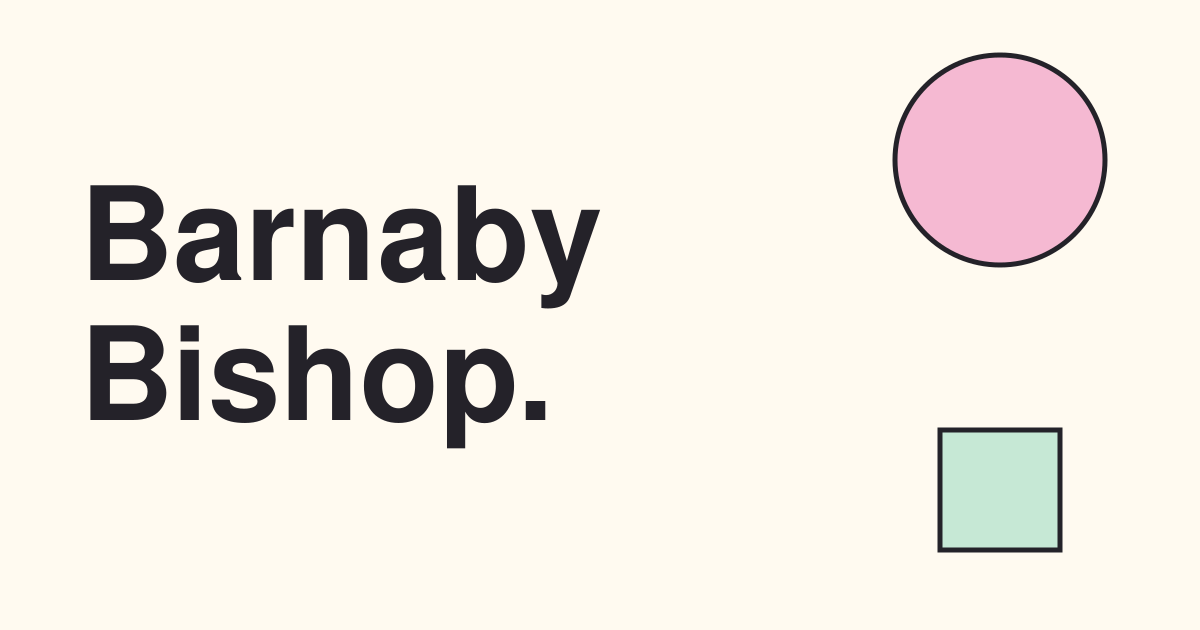
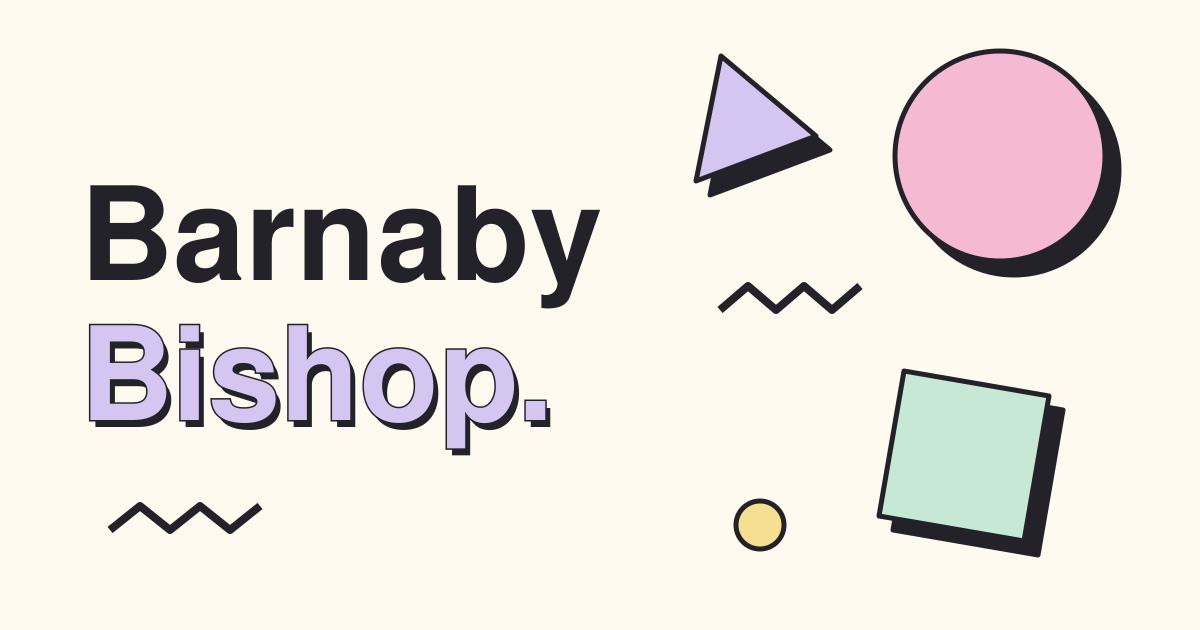
Complete canonical metadata, social cards and static discovery (#5)

diff --git a/tests/build.test.ts b/tests/build.test.ts
@@ -58,7 +58,7 @@ test('real static builds, direct requests and deliberate local draft preview', {
     await build();
     const emptyHome = await readFile(join(directory, 'dist/index.html'), 'utf8');
     assert.match(emptyHome, /Nothing published just yet/);
-    assert.doesNotMatch(emptyHome, /interactive-example|<script\b/);
+    assert.doesNotMatch(emptyHome, /interactive-example|<script(?![^>]*type="application\/ld\+json")\b/);
     await assert.rejects(access(join(directory, 'dist/interactive-example/index.html')));
 
     // Temporary published fixtures verify both author-owned layout choices.
@@ -69,6 +69,7 @@ test('real static builds, direct requests and deliberate local draft preview', {
       await mkdir(folder);
       await writeFile(join(folder, 'metadata.ts'), 'export default ' + JSON.stringify({
         title: slug, description: 'Summary & details', slug, published, draft: false,
+        ...(bespoke ? { modified: '2026-02-01', image: { url: 'https://barnabybishop.com/override.png', alt: 'Fixture image', width: 800, height: 400 } } : {}),
       }));
       await writeFile(join(folder, 'Post.astro'), bespoke
         ? '---\nimport SiteShell from "../../layouts/SiteShell.astro";\n---\n<SiteShell title="Bespoke fixture" description="Own layout"><main><h1>My own page</h1></main></SiteShell>'
@@ -81,17 +82,79 @@ test('real static builds, direct requests and deliberate local draft preview', {
       published: '2024-01-01', draft: false,
     }));
     await cp(join(directory, 'src/posts/interactive-example/Post.astro'), join(interactive, 'Post.astro'));
+    await cp(join(directory, 'public/social.png'), join(directory, 'public/override.png'));
     await build();
     const interactiveHtml = await readFile(join(directory, 'dist/interactive-fixture/index.html'), 'utf8');
-    assert.match(interactiveHtml, /<script\b/);
+    assert.match(interactiveHtml, /<script(?![^>]*type="application\/ld\+json")\b/);
     const home = await readFile(join(directory, 'dist/index.html'), 'utf8');
     assert.ok(home.indexOf('href="/newer-fixture"') < home.indexOf('href="/older-fixture"'));
     for (const file of ['index.html', 'about/index.html', '404.html', 'rss.xml', 'sitemap.xml', 'llms.txt']) {
       const output = await readFile(join(directory, 'dist', file), 'utf8');
       assert.doesNotMatch(output, /interactive-example|A small interactive example/);
-      assert.doesNotMatch(output, /<script\b/);
+      assert.doesNotMatch(output, /<script(?![^>]*type="application\/ld\+json")\b/);
+    }
+    const titles = new Set<string>();
+    for (const [file, path, article] of [
+      ['index.html', '/', false], ['about/index.html', '/about', false],
+      ['older-fixture/index.html', '/older-fixture', true], ['newer-fixture/index.html', '/newer-fixture', true],
+    ] as const) {
+      const html = await readFile(join(directory, 'dist', file), 'utf8');
+      const url = 'https://barnabybishop.com' + path;
+      assert.match(html, new RegExp(`<link rel="canonical" href="${url}"`));
+      assert.match(html, new RegExp(`<meta property="og:url" content="${url}"`));
+      assert.match(html, new RegExp(`<meta property="og:type" content="${article ? 'article' : 'website'}"`));
+      assert.match(html, /<html lang="en"/);
+      assert.match(html, /name="viewport"/);
+      assert.match(html, /name="theme-color" content="#fffaf0"/);
+      assert.match(html, /property="og:site_name" content="Barnaby Bishop"/);
+      assert.match(html, /name="twitter:card" content="summary_large_image"/);
+      assert.match(html, /type="application\/rss\+xml"[^>]*href="https:\/\/barnabybishop.com\/rss.xml"/);
+      assert.doesNotMatch(html, /localhost|127\.0\.0\.1/);
+      const title = html.match(/<title>(.*?)<\/title>/)![1]!;
+      assert.ok(!titles.has(title));
+      titles.add(title);
+      const graph = JSON.parse(html.match(/<script type="application\/ld\+json">(.*?)<\/script>/s)![1]!)['@graph'];
+      assert.equal(graph[0].name, 'Barnaby Bishop');
+      assert.equal(graph[1].url, 'https://barnabybishop.com/');
+      assert.equal(graph.some((entry: { '@type': string }) => entry['@type'] === 'BlogPosting'), article);
+      if (article) {
+        assert.match(html, /property="article:author" content="https:\/\/barnabybishop.com\/"/);
+        assert.equal(graph[2].url, url);
+        assert.equal(graph[2].headline, path.slice(1));
+      }
+      if (path === '/newer-fixture') {
+        assert.match(html, /property="og:image" content="https:\/\/barnabybishop.com\/override.png"/);
+        assert.match(html, /property="og:image:alt" content="Fixture image"/);
+        assert.match(html, /property="og:image:width" content="800"/);
+        assert.match(html, /property="og:image:height" content="400"/);
+        assert.match(html, /property="article:modified_time" content="2026-02-01"/);
+        assert.equal(graph[2].dateModified, '2026-02-01');
+      } else {
+        assert.match(html, /property="og:image" content="https:\/\/barnabybishop.com\/social.png"/);
+        assert.doesNotMatch(html, /article:modified_time|dateModified/);
+      }
+    }
+    const notFound = await readFile(join(directory, 'dist/404.html'), 'utf8');
+    assert.match(notFound, /noindex, nofollow/);
+    const sitemap = await readFile(join(directory, 'dist/sitemap.xml'), 'utf8');
+    const llms = await readFile(join(directory, 'dist/llms.txt'), 'utf8');
+    for (const slug of ['older-fixture', 'newer-fixture', 'interactive-fixture']) {
+      const url = 'https://barnabybishop.com/' + slug;
+      assert.ok(sitemap.includes(`<loc>${url}</loc>`));
+      assert.ok(llms.includes(`](${url})`));
+    }
+    assert.match(await readFile(join(directory, 'dist/robots.txt'), 'utf8'), /Sitemap: https:\/\/barnabybishop.com\/sitemap.xml/);
+    for (const asset of ['social.png', 'favicon-32.png', 'apple-touch-icon.png', 'override.png']) {
+      const bytes = await readFile(join(directory, 'dist', asset));
+      assert.equal(bytes.subarray(1, 4).toString(), 'PNG');
+      if (asset === 'social.png') {
+        assert.equal(bytes.readUInt32BE(16), 1200);
+        assert.equal(bytes.readUInt32BE(20), 630);
+      }
     }
     const rss = await readFile(join(directory, 'dist/rss.xml'), 'utf8');
+    assert.doesNotMatch(sitemap + rss + llms, /404|interactive-example/);
+    assert.match(rss, /<link>https:\/\/barnabybishop.com\/newer-fixture<\/link>/);
     assert.match(rss, /Summary &amp; details/);
     assert.ok(rss.indexOf('newer-fixture') < rss.indexOf('older-fixture'));
     await serve(directory, ['preview'], async (base) => {
@@ -104,10 +167,10 @@ test('real static builds, direct requests and deliberate local draft preview', {
       const standard = await (await fetch(base + '/older-fixture')).text();
       assert.match(standard, /site-header/);
       assert.match(standard, /Standard article body/);
-      assert.doesNotMatch(standard, /<script\b/);
+      assert.doesNotMatch(standard, /<script(?![^>]*type="application\/ld\+json")\b/);
       const bespoke = await (await fetch(base + '/newer-fixture')).text();
       assert.match(bespoke, /My own page/);
-      assert.doesNotMatch(bespoke, /class="site-(?:header|footer)"|<article\b|<script\b/);
+      assert.doesNotMatch(bespoke, /class="site-(?:header|footer)"|<article\b|<script(?![^>]*type="application\/ld\+json")\b/);
     });
     await serve(directory, ['dev'], async (base) => {
       assert.equal((await fetch(base + '/interactive-example')).status, 404);

diff --git a/src/lib/metadata.ts b/src/lib/metadata.ts
@@ -1,0 +1,65 @@
+import type { PostMetadata, SocialImage } from './post-catalogue';
+
+export const origin = 'https://barnabybishop.com';
+export const siteName = 'Barnaby Bishop';
+export const siteDescription = 'The personal website of Barnaby Bishop.';
+export const themeColour = '#fffaf0';
+
+/** Page paths have no trailing slash, except the site root. Never use request origins. */
+export function canonicalUrl(path: string): string {
+  const pathname = new URL(path, origin).pathname.replace(/\/+$/, '') || '/';
+  return origin + pathname;
+}
+
+export const defaultImage: SocialImage = {
+  url: origin + '/social.png',
+  alt: 'Barnaby Bishop with pastel Memphis shapes, dark outlines and hard shadows.',
+  width: 1200,
+  height: 630,
+};
+
+export const publicPages = [
+  { path: '/', title: siteName, description: siteDescription },
+  { path: '/about', title: 'About — Barnaby Bishop', description: 'About page for Barnaby Bishop.' },
+] as const;
+
+export interface PageMetadata {
+  title: string;
+  description: string;
+  canonical: string;
+  image: SocialImage;
+  type: 'website' | 'article';
+  noindex: boolean;
+  published?: string;
+  modified?: string;
+  structuredData: Record<string, unknown>[];
+}
+
+export function pageMetadata(path: string, post?: PostMetadata, fallback?: { title?: string; description?: string; noindex?: boolean }): PageMetadata {
+  const canonical = canonicalUrl(path);
+  const page = publicPages.find((entry) => canonicalUrl(entry.path) === canonical);
+  const missing = canonical === canonicalUrl('/404') || canonical === canonicalUrl('/404.html');
+  const title = post ? `${post.title} — ${siteName}` : page?.title ?? fallback?.title ?? `Page not found — ${siteName}`;
+  const description = post?.description ?? page?.description ?? fallback?.description ?? 'This page could not be found.';
+  const article = post && !post.draft;
+  const image = post?.image ?? defaultImage;
+  const person = { '@type': 'Person', '@id': origin + '/#person', name: siteName, url: canonicalUrl('/') };
+  const website = { '@type': 'WebSite', '@id': origin + '/#website', name: siteName, url: canonicalUrl('/'), description: siteDescription, author: { '@id': person['@id'] } };
+  const noindex = missing || post?.draft === true || fallback?.noindex === true;
+  return {
+    title, description, canonical, image, noindex, type: article ? 'article' : 'website',
+    ...(article ? { published: post.published, modified: post.modified } : {}),
+    structuredData: noindex ? [] : [{ '@context': 'https://schema.org', '@graph': [person, website, ...(article ? [{
+      '@type': 'BlogPosting', '@id': canonical + '#article', url: canonical,
+      mainEntityOfPage: canonical, headline: post.title, description,
+      image: { '@type': 'ImageObject', url: image.url, caption: image.alt, width: image.width, height: image.height },
+      author: { '@id': person['@id'] }, isPartOf: { '@id': website['@id'] },
+      datePublished: post.published, ...(post.modified ? { dateModified: post.modified } : {}),
+    }] : [])] }],
+  };
+}
+
+/** Keep JSON-LD inert even when catalogue text contains HTML closing tags. */
+export function serializeJsonLd(value: unknown): string {
+  return JSON.stringify(value).replace(/</g, '\\u003c').replace(/>/g, '\\u003e').replace(/&/g, '\\u0026');
+}

diff --git a/tests/metadata.test.ts b/tests/metadata.test.ts
@@ -1,0 +1,39 @@
+import { test } from 'node:test';
+import assert from 'node:assert/strict';
+import { canonicalUrl, pageMetadata, serializeJsonLd } from '../src/lib/metadata.ts';
+import { createCatalogue } from '../src/lib/post-catalogue.ts';
+
+const post = { title: 'A title', description: 'A summary', published: '2026-01-01', slug: 'a-post', draft: false };
+
+test('canonical production URLs ignore query strings, fragments, request origins and trailing slashes', () => {
+  for (const path of ['/about', '/about/', '/about///?x=1#top', 'http://localhost:4321/about/']) {
+    assert.equal(canonicalUrl(path), 'https://barnabybishop.com/about');
+  }
+  assert.equal(canonicalUrl('/'), 'https://barnabybishop.com/');
+});
+
+test('draft previews have no article metadata or structured data; modification dates are never fabricated', () => {
+  const draft = pageMetadata('/a-post', { ...post, draft: true });
+  assert.equal(draft.noindex, true);
+  assert.equal(draft.type, 'website');
+  assert.deepEqual(draft.structuredData, []);
+  const published = pageMetadata('/a-post', post);
+  assert.equal(published.type, 'article');
+  assert.equal(published.modified, undefined);
+  assert.doesNotMatch(serializeJsonLd(published.structuredData), /dateModified/);
+});
+
+test('social overrides require absolute HTTP(S) URLs, descriptive alt text and real dimensions', () => {
+  const image = { url: 'https://example.com/card.png', alt: 'A card', width: 1200, height: 630 };
+  assert.equal(pageMetadata('/a-post', { ...post, image }).image, image);
+  for (const change of [{ url: '/relative.png' }, { url: 'javascript:alert(1)' }, { alt: '' }, { width: 0 }, { height: 1.5 }]) {
+    assert.throws(() => createCatalogue({ fixture: { ...post, image: { ...image, ...change } } }), /image\./);
+  }
+});
+
+test('JSON-LD remains inert with HTML or closing script text from the catalogue', () => {
+  const value = { text: '</script><script>alert("test")</script> & text' };
+  const serialized = serializeJsonLd(value);
+  assert.doesNotMatch(serialized, /[<>&]/);
+  assert.deepEqual(JSON.parse(serialized), value);
+});

diff --git a/src/lib/post-catalogue.ts b/src/lib/post-catalogue.ts
@@ -1,8 +1,16 @@
+export interface SocialImage {
+  url: string;
+  alt: string;
+  width: number;
+  height: number;
+}
+
 export interface PostMetadata {
   title: string;
   description: string;
   published: string;
   modified?: string;
+  image?: SocialImage;
   slug: string;
   draft: boolean;
 }
@@ -47,6 +55,16 @@ export function createCatalogue(
     if (typeof data.modified === 'string' && data.modified < (data.published as string)) fail('modified precedes published');
     if (typeof data.slug !== 'string' || !/^[a-z0-9]+(?:-[a-z0-9]+)*$/.test(data.slug)) fail('slug must be a lowercase root slug');
     if (typeof data.draft !== 'boolean') fail('draft must be explicitly true or false');
+    if (data.image !== undefined) {
+      const image = data.image as Partial<SocialImage> | null;
+      let url: URL | undefined;
+      try { url = new URL(image?.url ?? ''); } catch {}
+      if (!url || !['https:', 'http:'].includes(url.protocol) || url.username || url.password) fail('image.url must be an absolute HTTP(S) URL');
+      if (typeof image?.alt !== 'string' || !image.alt.trim()) fail('image.alt must be non-empty text');
+      for (const dimension of ['width', 'height'] as const) {
+        if (!Number.isInteger(image?.[dimension]) || (image?.[dimension] ?? 0) <= 0) fail(`image.${dimension} must be a positive integer`);
+      }
+    }
     const slug = data.slug as string;
     if (blocked.has(slug)) fail(`reserved/static route collision: ${slug}`);
     if (slugs.has(slug)) fail(`duplicate slug: ${slug}`);

diff --git a/src/pages/rss.xml.ts b/src/pages/rss.xml.ts
@@ -1,10 +1,11 @@
 import type { APIRoute } from 'astro';
+import { canonicalUrl, siteName } from '../lib/metadata';
 import { posts } from '../lib/posts';
 import { escapeXml as xml } from '../lib/discovery';
 
-export const GET: APIRoute = ({ site }) => new Response(
-  `<?xml version="1.0" encoding="UTF-8"?><rss version="2.0"><channel><title>Barnaby Bishop</title><link>${site}</link><description>Posts by Barnaby Bishop</description>${posts.map((post) => {
-    const url = xml(new URL('/' + post.slug, site).href);
+export const GET: APIRoute = () => new Response(
+  `<?xml version="1.0" encoding="UTF-8"?><rss version="2.0" xmlns:atom="http://www.w3.org/2005/Atom"><channel><atom:link href="${canonicalUrl('/rss.xml')}" rel="self" type="application/rss+xml"/><language>en</language><title>${siteName}</title><link>${canonicalUrl('/')}</link><description>Posts by Barnaby Bishop</description>${posts.map((post) => {
+    const url = xml(canonicalUrl('/' + post.slug));
     return `<item><title>${xml(post.title)}</title><link>${url}</link><guid>${url}</guid><description>${xml(post.description)}</description><pubDate>${new Date(post.published).toUTCString()}</pubDate></item>`;
   }).join('')}</channel></rss>`, { headers: { 'Content-Type': 'application/rss+xml; charset=utf-8' } },
 );

diff --git a/src/pages/llms.txt.ts b/src/pages/llms.txt.ts
@@ -1,7 +1,8 @@
 import type { APIRoute } from 'astro';
+import { canonicalUrl, publicPages, siteName, siteDescription } from '../lib/metadata';
 import { posts } from '../lib/posts';
-export const GET: APIRoute = ({ site }) => new Response(
-  `# Barnaby Bishop\n\n> Personal website of Barnaby Bishop.\n\n## Pages\n\n- [Home](${site})\n- [About](${new URL('/about', site)})\n\n## Published posts\n\n${posts.map((post) =>
-    `- [${post.title.replace(/[\r\n\[\]]/g, ' ')}](${new URL('/' + post.slug, site)}): ${post.description.replace(/[\r\n]/g, ' ')}\n`,
+export const GET: APIRoute = () => new Response(
+  `# ${siteName}\n\n> ${siteDescription}\n\n## Pages\n\n${publicPages.map((page) => `- [${page.title}](${canonicalUrl(page.path)})`).join('\n')}\n\n## Published posts\n\n${posts.map((post) =>
+    `- [${post.title.replace(/[\r\n\[\]]/g, ' ')}](${canonicalUrl('/' + post.slug)}): ${post.description.replace(/[\r\n]/g, ' ')}\n`,
   ).join('')}`, { headers: { 'Content-Type': 'text/plain; charset=utf-8' } },
 );

diff --git a/src/pages/sitemap.xml.ts b/src/pages/sitemap.xml.ts
@@ -1,10 +1,11 @@
 import type { APIRoute } from 'astro';
+import { canonicalUrl, publicPages } from '../lib/metadata';
 import { posts } from '../lib/posts';
 import { escapeXml as xml } from '../lib/discovery';
 
-export const GET: APIRoute = ({ site }) => new Response(
+export const GET: APIRoute = () => new Response(
   `<?xml version="1.0" encoding="UTF-8"?><urlset xmlns="http://www.sitemaps.org/schemas/sitemap/0.9">${[
-    ...['/', '/about'].map((path) => `<url><loc>${xml(new URL(path, site).href)}</loc></url>`),
-    ...posts.map((post) => `<url><loc>${xml(new URL('/' + post.slug, site).href)}</loc><lastmod>${post.modified ?? post.published}</lastmod></url>`),
+    ...publicPages.map(({ path }) => `<url><loc>${xml(canonicalUrl(path))}</loc></url>`),
+    ...posts.map((post) => `<url><loc>${xml(canonicalUrl('/' + post.slug))}</loc><lastmod>${post.modified ?? post.published}</lastmod></url>`),
   ].join('')}</urlset>`, { headers: { 'Content-Type': 'application/xml; charset=utf-8' } },
 );

diff --git a/src/pages/robots.txt.ts b/src/pages/robots.txt.ts
@@ -1,5 +1,6 @@
 import type { APIRoute } from 'astro';
-export const GET: APIRoute = ({ site }) => new Response(
-  `User-agent: *\nAllow: /\nSitemap: ${new URL('/sitemap.xml', site)}\n`,
+import { canonicalUrl } from '../lib/metadata';
+export const GET: APIRoute = () => new Response(
+  `User-agent: *\nAllow: /\nSitemap: ${canonicalUrl('/sitemap.xml')}\n`,
   { headers: { 'Content-Type': 'text/plain; charset=utf-8' } },
 );

diff --git a/src/env.d.ts b/src/env.d.ts
@@ -1,0 +1,6 @@
+import type { PostEntry } from './lib/post-catalogue';
+declare global {
+  namespace App {
+    interface Locals { post?: PostEntry }
+  }
+}
